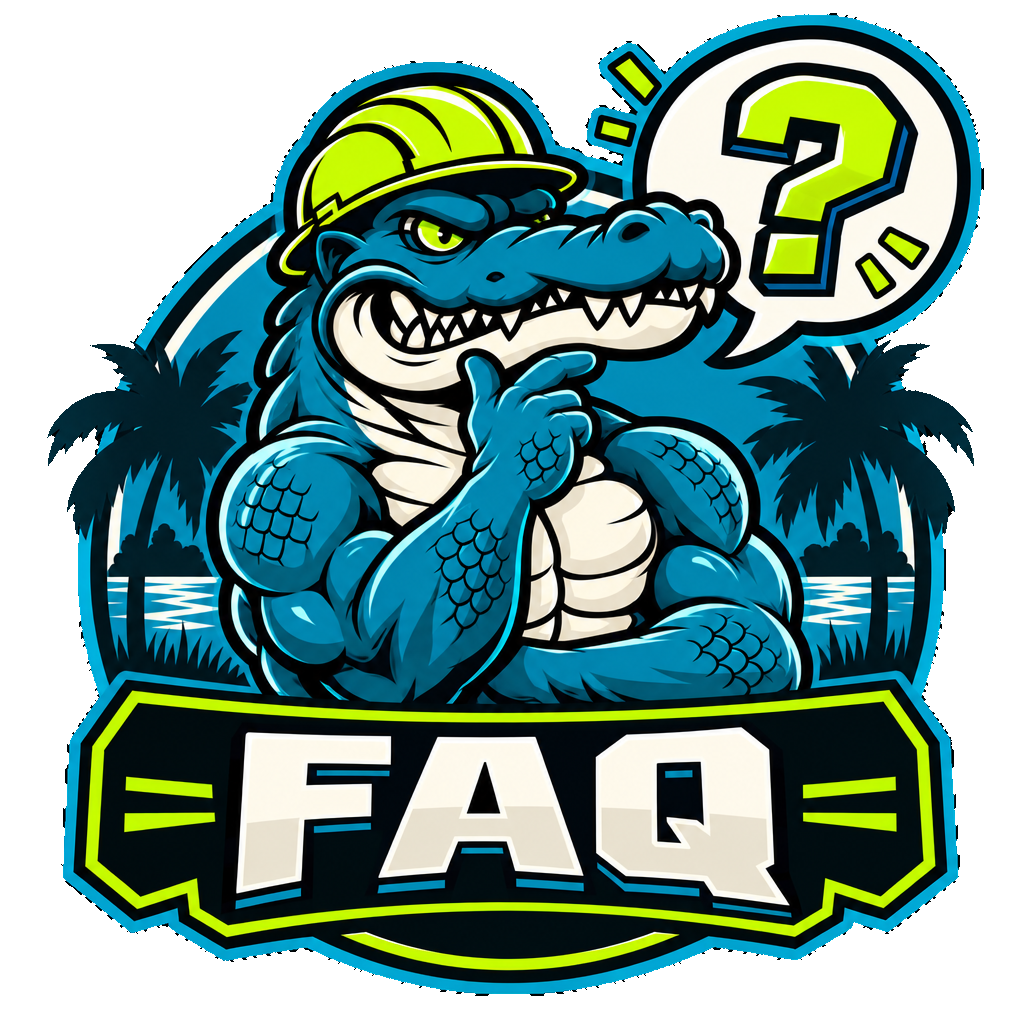
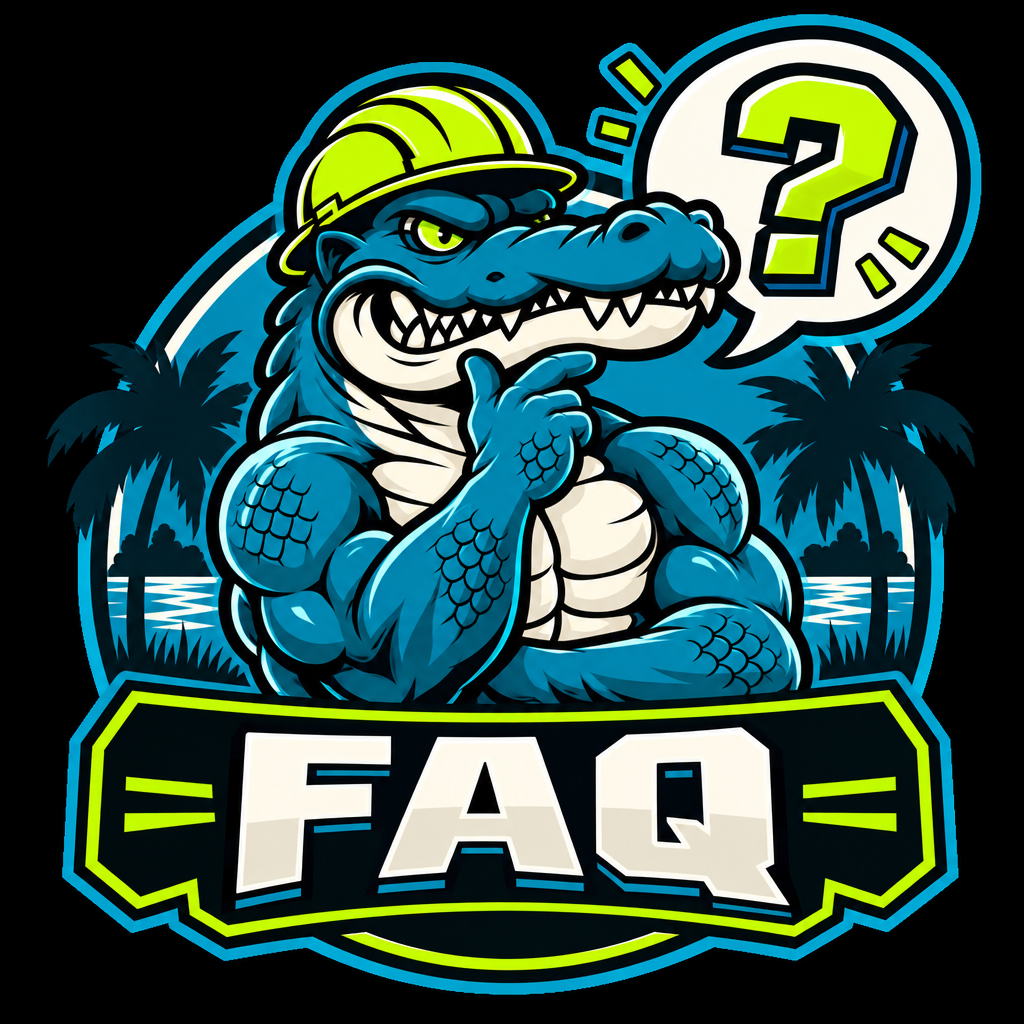
fix: put Gator Way badges on dark asphalt bg instead of stripping backgrounds
The badge bg-strip approach was fragile — a strict threshold left the raw
black background intact, a loose one ate design details (dark gator
outlines, banner fill). Simpler: restore the original badges with their
black backgrounds and give the Gator Way section a bg-asphalt surface.
The badges' black bg melts into the section bg and the full illustration
reads cleanly — gator muscles, dark banner, numeral outline, lime trim
all preserved

Switch the Gator Way section to bg-asphalt text-shell with the usual
ambient teal + lime glow washes, swap the eyebrow/body/CTA copy to the
dark-surface palette. Keep the badges, hover tilt, dot connectors, and
24h-reply + Start Step 1 trailing strip. FAQ Gator was already on asphalt
and keeps its original black bg

diff --git a/client/src/pages/landing.tsx b/client/src/pages/landing.tsx
@@ -365,16 +365,19 @@ export default function LandingPage() {
         </div>
       </section>
 
-      {/* ── THE GATOR WAY — badge-forward 3-step ── */}
-      <section id="how-it-works" className="relative py-14 sm:py-20 lg:py-24 px-4 sm:px-6 lg:px-8 bg-shell overflow-hidden">
-        <div ref={howReveal} className="max-w-7xl mx-auto reveal">
+      {/* ── THE GATOR WAY — badge-forward 3-step on dark asphalt ── */}
+      <section id="how-it-works" className="relative py-14 sm:py-20 lg:py-24 px-4 sm:px-6 lg:px-8 bg-asphalt text-shell overflow-hidden">
+        <div className="absolute -top-40 right-0 w-[500px] h-[500px] rounded-full bg-teal/10 blur-3xl pointer-events-none" aria-hidden="true" />
+        <div className="absolute -bottom-40 left-0 w-[400px] h-[400px] rounded-full bg-gator-orange/10 blur-3xl pointer-events-none" aria-hidden="true" />
+
+        <div ref={howReveal} className="relative max-w-7xl mx-auto reveal">
           <div className="text-center mb-12 sm:mb-16">
-            <div className="font-mono text-[11px] font-black tracking-[0.3em] uppercase text-teal mb-3">
+            <div className="font-mono text-[11px] font-black tracking-[0.3em] uppercase text-gator-orange mb-3">
               The Gator Way
             </div>
-            <h2 className="font-display font-black uppercase text-[clamp(1.75rem,5vw,3.5rem)] leading-[0.95] tracking-[-0.03em] text-asphalt text-balance">
+            <h2 className="font-display font-black uppercase text-[clamp(1.75rem,5vw,3.5rem)] leading-[0.95] tracking-[-0.03em] text-shell text-balance">
               From first call<br className="sm:hidden" />
-              <span className="text-teal sm:ml-3">to drive-off.</span>
+              <span className="text-gator-orange sm:ml-3">to drive-off.</span>
             </h2>
           </div>
 
@@ -392,29 +395,29 @@ export default function LandingPage() {
                   </div>
                 )}
 
-                {/* Big badge image */}
+                {/* Big badge image — original black bg blends into asphalt */}
                 <div className="relative mb-5 sm:mb-6 transition-transform duration-500 group-hover:scale-[1.04] group-hover:-rotate-1">
                   <img
                     src={badge}
                     alt={`Step ${step}: ${title}`}
-                    className="w-48 h-48 sm:w-56 sm:h-56 lg:w-64 lg:h-64 object-contain drop-shadow-[0_14px_28px_rgba(0,0,0,0.35)]"
+                    className="w-48 h-48 sm:w-56 sm:h-56 lg:w-64 lg:h-64 object-contain drop-shadow-[0_14px_28px_rgba(0,0,0,0.45)]"
                   />
                 </div>
 
                 {/* Body */}
                 <div className="max-w-xs">
-                  <h3 className="font-display font-black uppercase text-lg sm:text-xl leading-tight tracking-tight text-asphalt mb-2">
+                  <h3 className="font-display font-black uppercase text-lg sm:text-xl leading-tight tracking-tight text-shell mb-2">
                     {title}
                   </h3>
-                  <p className="text-asphalt/65 text-[13px] sm:text-sm leading-[1.55]">{desc}</p>
+                  <p className="text-shell/65 text-[13px] sm:text-sm leading-[1.55]">{desc}</p>
                 </div>
               </li>
             ))}
           </ol>
 
           {/* Trailing CTA strip */}
-          <div className="mt-12 sm:mt-16 flex flex-col sm:flex-row items-center justify-between gap-4 pt-6 border-t border-asphalt/15">
-            <div className="flex items-center gap-3 text-asphalt/70">
+          <div className="mt-12 sm:mt-16 flex flex-col sm:flex-row items-center justify-between gap-4 pt-6 border-t border-white/10">
+            <div className="flex items-center gap-3 text-shell/70">
               <span className="w-2 h-2 rounded-full bg-gator-orange animate-pulse" />
               <span className="font-mono text-[11px] font-black uppercase tracking-[0.26em]">
                 24h reply · Same-week starts
